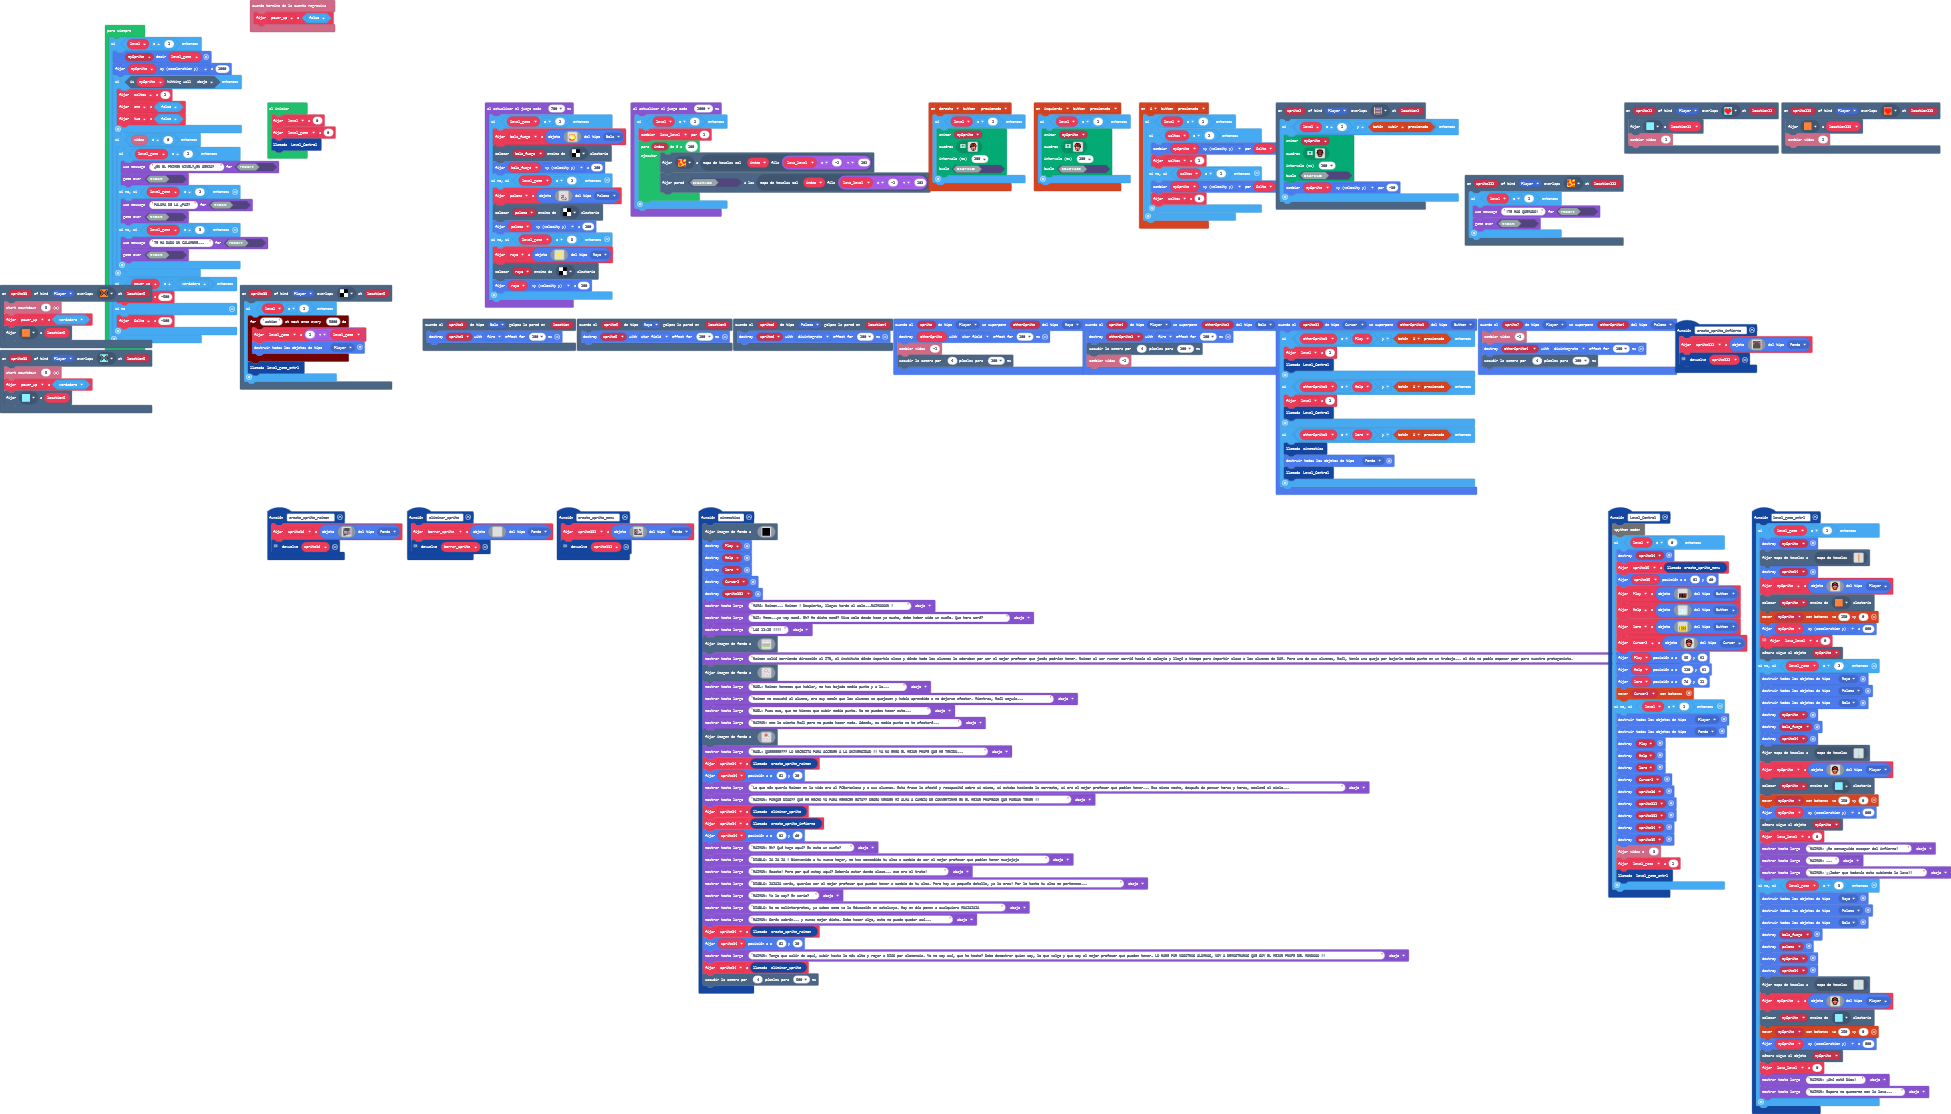
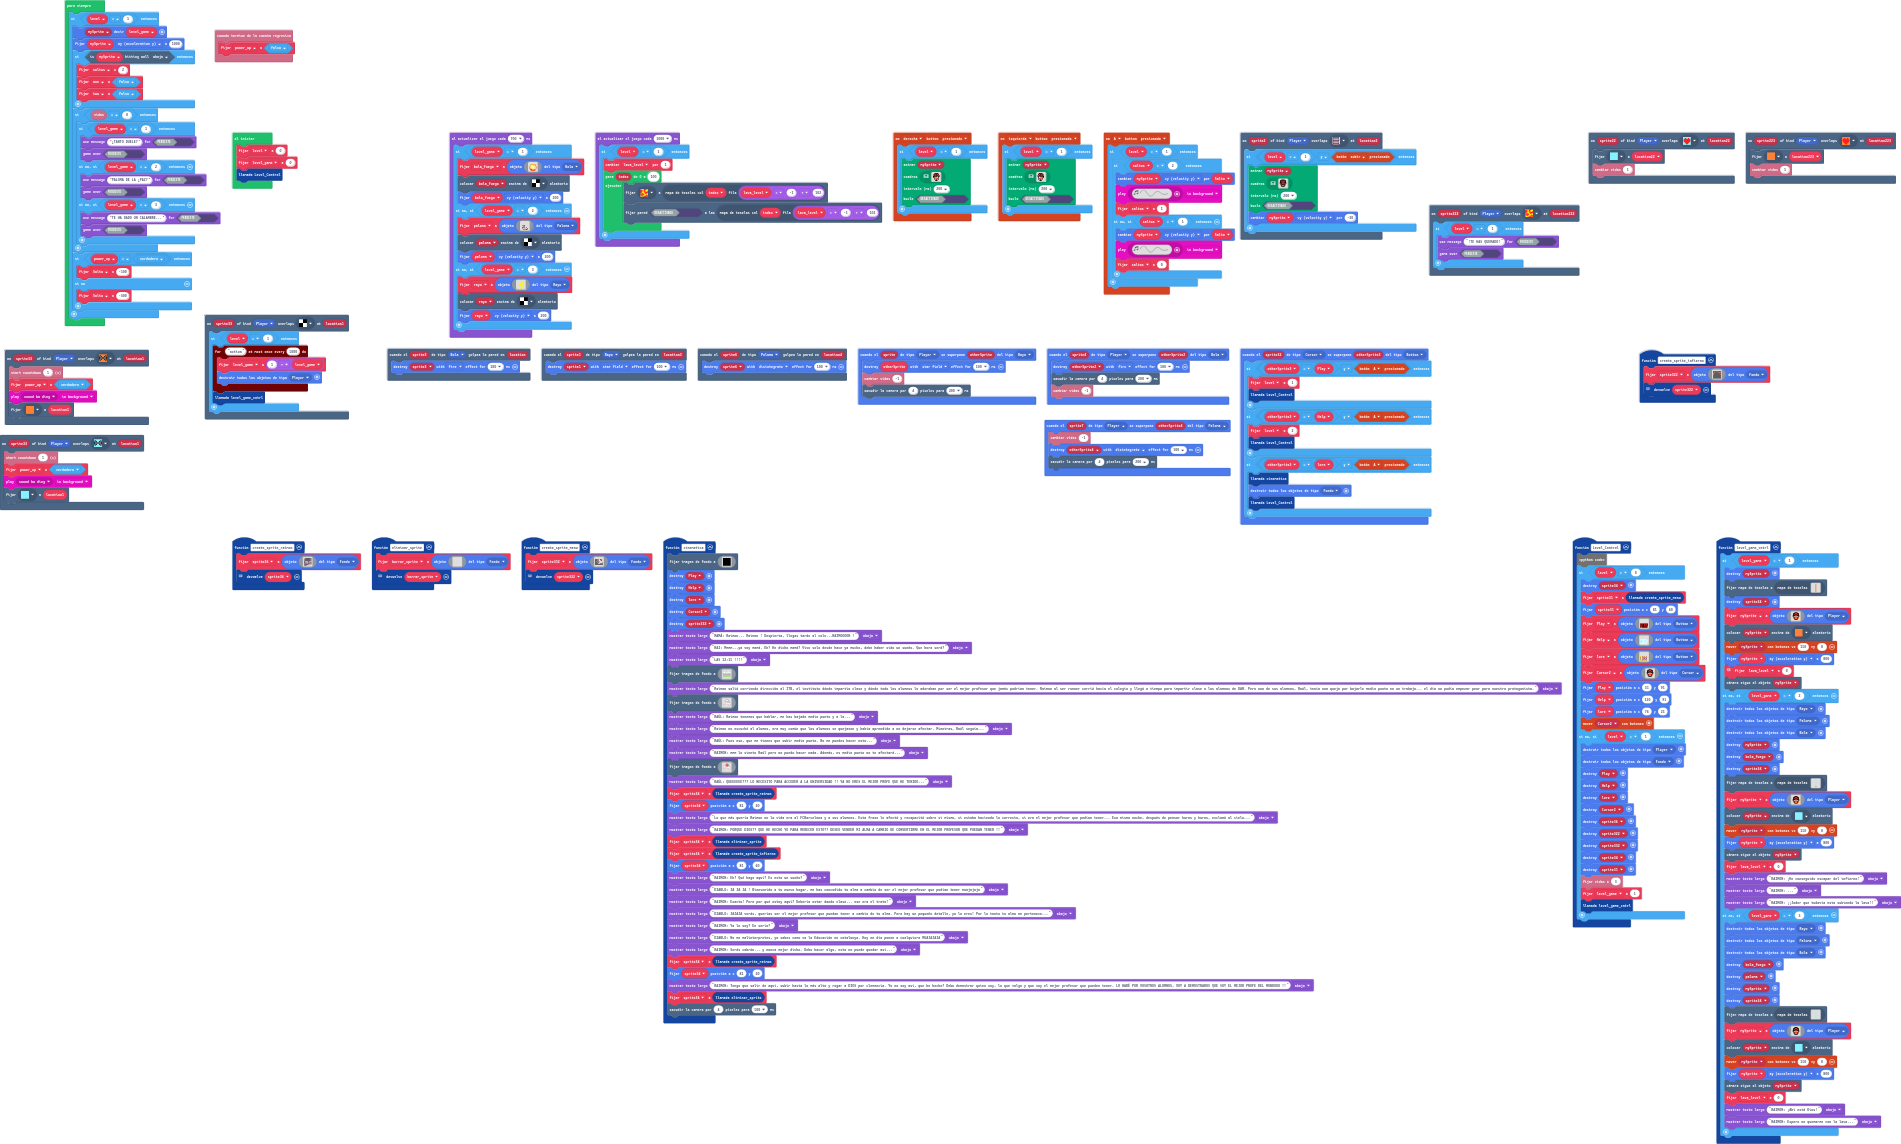
SONIDO SALTO

Changed region(s): [[0.0, 0.0, 1.0, 0.4578], [0.1241, 0.4578, 1.0, 1.0]]

diff --git a/main.ts b/main.ts
@@ -402,9 +402,11 @@ controller.A.onEvent(ControllerButtonEvent.Pressed, function () {
     if (level == 1) {
         if (saltos == 2) {
             mySprite.vy += Salto
+            music.play(music.createSoundEffect(WaveShape.Sine, 308, 575, 255, 0, 200, SoundExpressionEffect.None, InterpolationCurve.Linear), music.PlaybackMode.InBackground)
             saltos = 1
         } else if (saltos == 1) {
             mySprite.vy += Salto
+            music.play(music.createSoundEffect(WaveShape.Sine, 308, 575, 255, 0, 200, SoundExpressionEffect.None, InterpolationCurve.Linear), music.PlaybackMode.InBackground)
             saltos = 0
         }
     }
@@ -427,6 +429,7 @@ scene.onHitWall(SpriteKind.Bola, function (sprite3, location) {
 scene.onOverlapTile(SpriteKind.Player, assets.tile`myTile18`, function (sprite33, location5) {
     info.startCountdown(5)
     power_up = true
+    music.play(music.melodyPlayable(music.baDing), music.PlaybackMode.InBackground)
     tiles.setTileAt(location5, assets.tile`myTile6`)
 })
 scene.onOverlapTile(SpriteKind.Player, assets.tile`myTile10`, function (sprite223, location223) {
@@ -649,6 +652,7 @@ sprites.onOverlap(SpriteKind.Player, SpriteKind.Paloma, function (sprite7, other
 scene.onOverlapTile(SpriteKind.Player, assets.tile`myTile17`, function (sprite33, location5) {
     info.startCountdown(5)
     power_up = true
+    music.play(music.melodyPlayable(music.baDing), music.PlaybackMode.InBackground)
     tiles.setTileAt(location5, assets.tile`cielo0`)
 })
 function create_sprite_menu () {
@@ -886,7 +890,7 @@ forever(function () {
         }
         if (info.life() == 0) {
             if (level_game == 1) {
-                game.setGameOverMessage(false, "¿EN EL PRIMER NIVEL?¿EN SERIO?")
+                game.setGameOverMessage(false, "¿TANTO DUELE?")
                 game.gameOver(false)
             } else if (level_game == 2) {
                 game.setGameOverMessage(false, "PALOMA DE LA ¿PAZ?")

diff --git a/main.py b/main.py
@@ -444,9 +444,13 @@ def on_a_pressed():
     if level == 1:
         if saltos == 2:
             mySprite.vy += Salto
+            music.play(music.melody_playable(music.zapped),
+                music.PlaybackMode.IN_BACKGROUND)
             saltos = 1
         elif saltos == 1:
             mySprite.vy += Salto
+            music.play(music.melody_playable(music.zapped),
+                music.PlaybackMode.IN_BACKGROUND)
             saltos = 0
 controller.A.on_event(ControllerButtonEvent.PRESSED, on_a_pressed)
 
@@ -479,6 +483,8 @@ def on_overlap_tile5(sprite332, location52):
     global power_up
     info.start_countdown(5)
     power_up = True
+    music.play(music.melody_playable(music.ba_ding),
+        music.PlaybackMode.IN_BACKGROUND)
     tiles.set_tile_at(location52, assets.tile("""
         myTile6
     """))
@@ -729,6 +735,8 @@ def on_overlap_tile7(sprite333, location53):
     global power_up
     info.start_countdown(5)
     power_up = True
+    music.play(music.melody_playable(music.ba_ding),
+        music.PlaybackMode.IN_BACKGROUND)
     tiles.set_tile_at(location53, assets.tile("""
         cielo0
     """))
@@ -1011,7 +1019,7 @@ def on_forever():
             two = False
         if info.life() == 0:
             if level_game == 1:
-                game.set_game_over_message(False, "¿EN EL PRIMER NIVEL?¿EN SERIO?")
+                game.set_game_over_message(False, "¿TANTO DUELE?")
                 game.game_over(False)
             elif level_game == 2:
                 game.set_game_over_message(False, "PALOMA DE LA ¿PAZ?")
